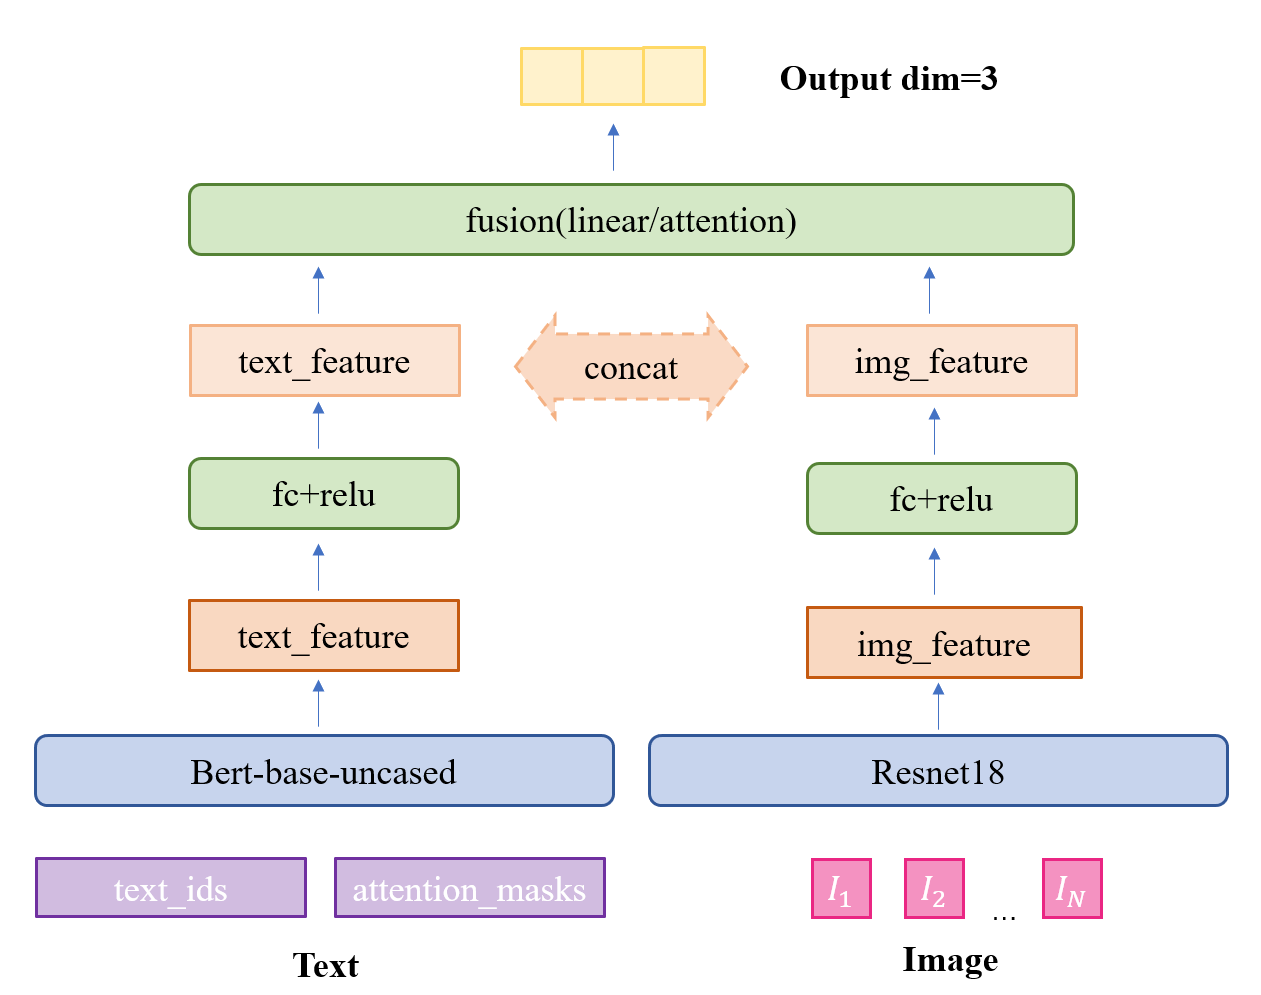
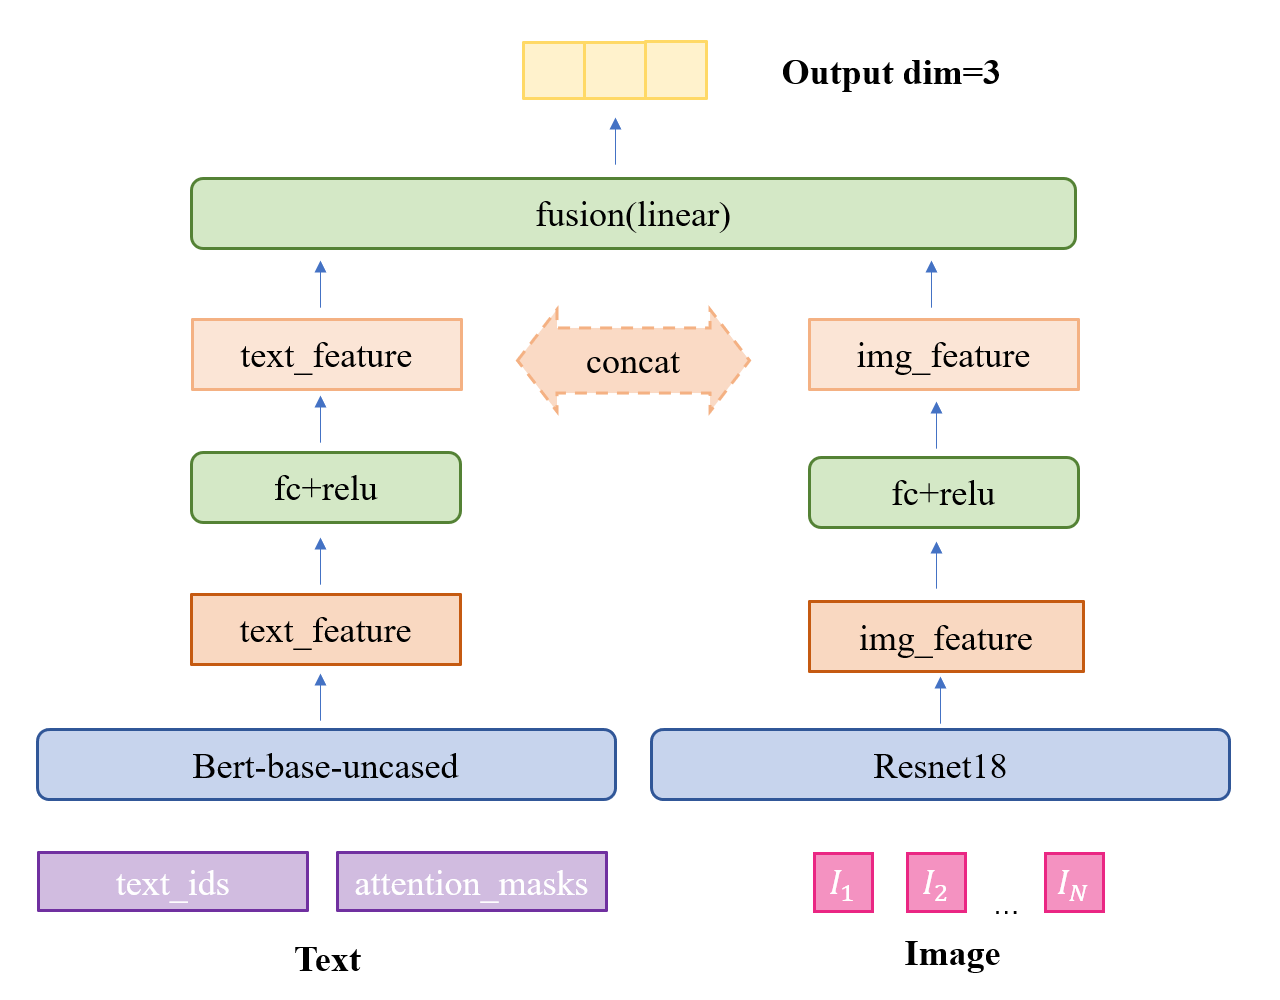
架构图和提交文件重命名

diff --git a/src/train_val_test.py b/src/train_val_test.py
@@ -105,5 +105,5 @@ class train_val_test:
         pred = [idx2label[i.item()] for i in pred]
         pd = pd.read_csv('data/test_without_label.txt')
         pd['tag'] = pred
-        pd.to_csv(f'result.txt', index=False)
+        pd.to_csv(f'submit.txt', index=False)
         self.logger.write(f'res saved.')
